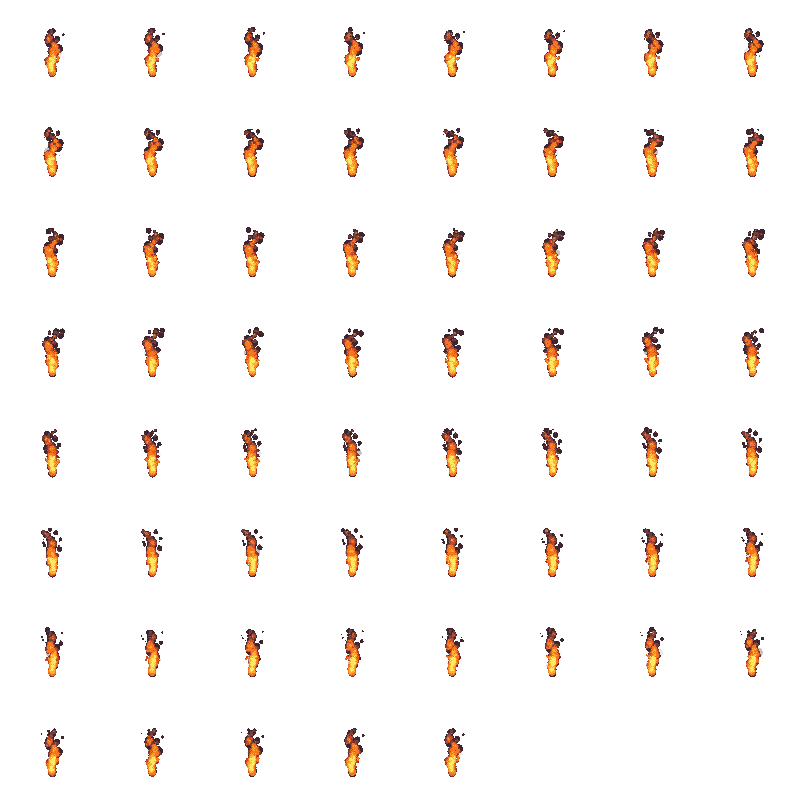
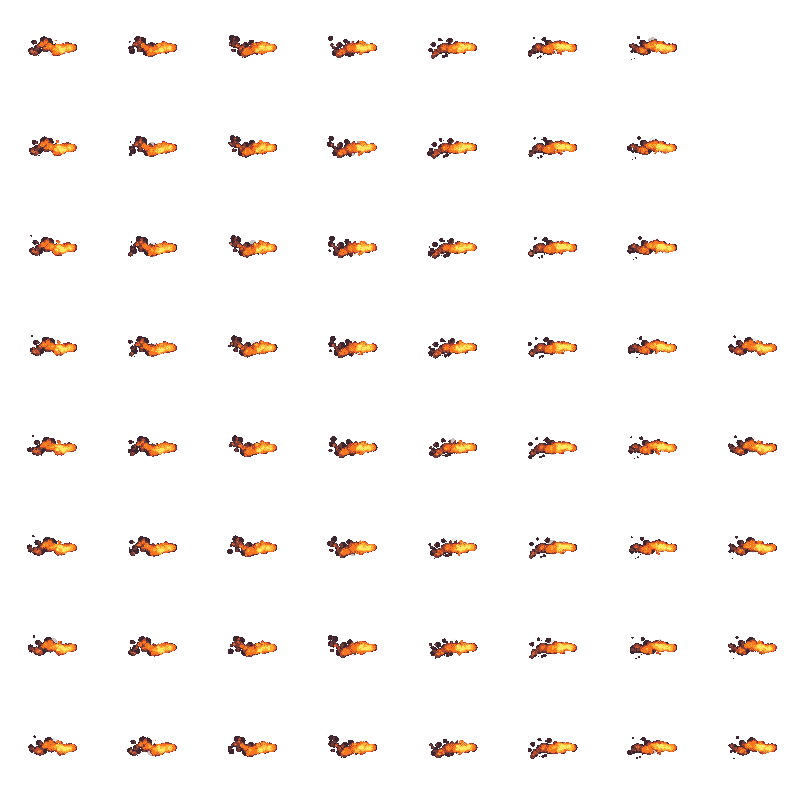
feat: add magic attack projectile system
- implement a dedicated MagicAttack class with sprite-sheet animation
- spawn and update magic projectiles in the world render loop
- add directional projectile movement and cleanup when off-screen
- bind magic attack input and trigger cast state from character
ogic
- delay projectile release until cast animation has finished
- consume mana on successful projectile release
- tune projectile spawn position to align closer to the character hand

diff --git a/models/player/character.class.js b/models/player/character.class.js
@@ -1,10 +1,11 @@
 import MovableObject from "../core/movable-object.class.js";
+import MagicAttack from "./magig-attack.class.js";
 
 export default class Character extends MovableObject {
   speed = 10;
   attackDamage = 5;
   comboInputWindowMs = 850;
-  mana = 20;
+  mana = 40;
   maxMana = 100;
 
   SPRITE_ANIMATIONS = {
@@ -66,11 +67,20 @@ export default class Character extends MovableObject {
 
   ATTACK_SEQUENCE = ["ATTACK_1", "ATTACK_2", "ATTACK_3"];
 
+  MAGIC_ATTACK = {
+    ATTACK_1: { startFrame: 6, endFrame: 8 }
+  };
+
+  MAGIC_ATTACK_SEQUENCE = ["ATTACK_1"];
+
   currentImg = 0;
   animationCounter = 0;
   activeAnimation = "WALK";
   deathAnimationFinished = false;
   attackActive = false;
+  magicAttackActive = false;
+  pendingMagicProjectile = false;
+  wasMagicAttackPressed = false;
   currentAttackName = null;
   queuedAttackName = null;
   comboExpiresAt = 0;
@@ -120,7 +130,11 @@ export default class Character extends MovableObject {
       this.handleAttackInput(now);
     }
 
-    if (!this.attackActive) {
+    if (this.isMagicAttackPressedNow()) {
+      this.handleMagicAttackInput(now);
+    }
+
+    if (!this.attackActive && !this.magicAttackActive) {
       this.handleMovementInput();
     }
   }
@@ -129,6 +143,13 @@ export default class Character extends MovableObject {
     const isPressed = Boolean(this.world?.keyboard?.ATTACK);
     const pressedNow = isPressed && !this.wasAttackPressed;
     this.wasAttackPressed = isPressed;
+    return pressedNow;
+  }
+
+  isMagicAttackPressedNow() {
+    const isPressed = Boolean(this.world?.keyboard?.MAGIC_ATTACK);
+    const pressedNow = isPressed && !this.wasMagicAttackPressed;
+    this.wasMagicAttackPressed = isPressed;
     return pressedNow;
   }
 
@@ -227,15 +248,43 @@ export default class Character extends MovableObject {
     this.queuedAttackName = null;
     this.comboExpiresAt = now + this.comboInputWindowMs;
     this.hitEnemiesThisAttack.clear();
+    this.activeAnimation = null;
+    this.animationCounter = 0;
     this.switchAnimation(attackName);
   }
 
   finishAttack() {
     this.attackActive = false;
+    this.magicAttackActive = false;
+    this.pendingMagicProjectile = false;
     this.currentAttackName = null;
     this.queuedAttackName = null;
     this.comboExpiresAt = 0;
     this.hitEnemiesThisAttack.clear();
+  }
+
+  handleMagicAttackInput(now) {
+    if (this.energy <= 0 || this.mana < 20) {
+      return;
+    }
+
+    if (this.attackActive || this.magicAttackActive) {
+      return;
+    }
+
+    this.startMagicAttack("ATTACK_2", now);
+  }
+
+  startMagicAttack(attackName, now) {
+    this.magicAttackActive = true;
+    this.pendingMagicProjectile = true;
+    this.currentAttackName = attackName;
+    this.queuedAttackName = null;
+    this.comboExpiresAt = now + this.comboInputWindowMs;
+    this.hitEnemiesThisAttack.clear();
+    this.activeAnimation = null;
+    this.animationCounter = 0;
+    this.switchAnimation(attackName);
   }
 
   // ─── Animation state machine ──────────────────────────────────────────────────
@@ -248,6 +297,11 @@ export default class Character extends MovableObject {
     }
 
     if (this.attackActive) {
+      this.playAttackAnimation(now);
+      return;
+    }
+
+    if (this.magicAttackActive) {
       this.playAttackAnimation(now);
       return;
     }
@@ -277,12 +331,30 @@ export default class Character extends MovableObject {
       return;
     }
 
+    if (this.magicAttackActive) {
+      this.releaseMagicProjectile();
+      this.finishAttack();
+      return;
+    }
+
     if (this.queuedAttackName && now <= this.comboExpiresAt) {
       this.startAttack(this.queuedAttackName, now);
     } else {
       this.finishAttack();
     }
   }
+
+  releaseMagicProjectile() {
+    if (!this.pendingMagicProjectile || !this.world) {
+      return;
+    }
+
+    const magicAttack = new MagicAttack(this);
+    this.world.addMagicAttack(magicAttack);
+    this.mana -= 20;
+    this.pendingMagicProjectile = false;
+  }
+
 
   playHurtAnimation() {
     this.switchAnimation("HURT");

diff --git a/models/player/magig-attack.class.js b/models/player/magig-attack.class.js
@@ -1,0 +1,57 @@
+import MovableObject from "../core/movable-object.class.js";
+
+export default class MagicAttack extends MovableObject {
+
+  speed = 10;
+  attackDamage = 5;
+
+  SPRITE_ANIMATION = {
+    frameCount: 8,
+    frameWidth: 100,
+    frameHeight: 100,
+    columns: 8,
+  };
+
+  currentImg = 0;
+  animationCounter = 0;
+
+  RIGHT_HAND_SPAWN_X_RATIO = 0.60;
+  LEFT_HAND_SPAWN_X_RATIO = 0.34;
+  HAND_SPAWN_Y_RATIO = 0.82;
+
+  constructor(character) {
+    super();
+    this.world = character?.world;
+    this.loadImage("img/character/wizard/fire_magic.png");
+    this.width = 120;
+    this.height = 90;
+    this.speed = 2;
+    this.damage = 10;
+    this.spriteSheet = {
+      frameWidth: this.SPRITE_ANIMATION.frameWidth,
+      frameHeight: this.SPRITE_ANIMATION.frameHeight,
+      frameCount: this.SPRITE_ANIMATION.frameCount,
+      columns: this.SPRITE_ANIMATION.columns,
+      currentFrame: 0,
+    };
+
+    const spawnAnchorX = character.otherDirection
+      ? character.x + character.width * this.LEFT_HAND_SPAWN_X_RATIO
+      : character.x + character.width * this.RIGHT_HAND_SPAWN_X_RATIO;
+    const spawnAnchorY = character.y + character.height * this.HAND_SPAWN_Y_RATIO;
+    this.x = character.otherDirection
+      ? spawnAnchorX - this.width * 0.75
+      : spawnAnchorX;
+    this.y = spawnAnchorY - this.height / 2;
+    this.otherDirection = character.otherDirection;
+  }
+
+  update() {
+    this.x += this.otherDirection ? -this.speed : this.speed;
+    this.animationCounter++;
+    if (this.animationCounter % 3 === 0 && this.spriteSheet) {
+      this.spriteSheet.currentFrame =
+        (this.spriteSheet.currentFrame + 1) % this.spriteSheet.frameCount;
+    }
+  }
+}

diff --git a/models/core/world.class.js b/models/core/world.class.js
@@ -13,6 +13,7 @@ export default class World {
   enemies = [];
   collectables = [];
   decorations = [];
+  magicAttacks = [];
   statusBar = new StatusBar();
   character = new Character();
   canvas;
@@ -97,6 +98,8 @@ export default class World {
     this.addObjToMap(this.tileset);
     this.addObjToMap(this.decorations);
     this.addObjToMap(this.collectables);
+    this.updateMagicAttacks();
+    this.addObjToMap(this.magicAttacks);
     this.addToMap(this.character);
     this.updateEnemyPlatformLocks();
     this.addObjToMap(this.enemies);
@@ -153,6 +156,27 @@ export default class World {
 
   getBackgroundVerticalPadding() {
     return Math.max(0, this.cameraMaxUp);
+  }
+
+  updateMagicAttacks() {
+    this.magicAttacks = this.magicAttacks.filter((attack) => {
+      if (typeof attack?.update === "function") {
+        attack.update();
+      }
+
+      const levelEndX = this.level?.levelEndX ?? Infinity;
+      const isOutOnRight = attack.x > levelEndX + 120;
+      const isOutOnLeft = attack.x + attack.width < -120;
+      return !isOutOnRight && !isOutOnLeft;
+    });
+  }
+
+  addMagicAttack(attack) {
+    if (!attack) {
+      return;
+    }
+
+    this.magicAttacks.push(attack);
   }
 
   addObjToMap(objects) {

diff --git a/js/game.js b/js/game.js
@@ -13,7 +13,7 @@ function init() {
 
 window.addEventListener("load", init);
 window.addEventListener("keydown", (e) => {
-  if (["ArrowRight", "ArrowLeft", "ArrowUp", "ArrowDown", "Space", "KeyW", "KeyA", "KeyS", "KeyD", "KeyF"].includes(e.code)) {
+  if (["ArrowRight", "ArrowLeft", "ArrowUp", "ArrowDown", "Space", "KeyW", "KeyA", "KeyS", "KeyD", "KeyF", "KeyG"].includes(e.code)) {
     e.preventDefault();
   }
 
@@ -40,11 +40,14 @@ window.addEventListener("keydown", (e) => {
     case "KeyF":
       world.keyboard.ATTACK = true;
       break;
+      case "KeyG":
+        world.keyboard.MAGIC_ATTACK = true;
+        break;
   }
 });
 
 window.addEventListener("keyup", (e) => {
-  if (["ArrowRight", "ArrowLeft", "ArrowUp", "ArrowDown", "Space", "KeyW", "KeyA", "KeyS", "KeyD", "KeyF"].includes(e.code)) {
+  if (["ArrowRight", "ArrowLeft", "ArrowUp", "ArrowDown", "Space", "KeyW", "KeyA", "KeyS", "KeyD", "KeyF", "KeyG"].includes(e.code)) {
     e.preventDefault();
   }
 
@@ -71,5 +74,8 @@ window.addEventListener("keyup", (e) => {
     case "KeyF":
       world.keyboard.ATTACK = false;
       break;
+      case "KeyG":
+        world.keyboard.MAGIC_ATTACK = false;
+        break;
   }
 });

diff --git a/models/environment/background-object.class.js b/models/environment/background-object.class.js
@@ -7,7 +7,7 @@ export default class BackgroundObject extends MovableObject {
         this.loadImage(imagePath);
         this.x = 0;
         this.y = 0;
-        this.width = 720;
+        this.width = 750;
         this.height = 480;
         this.parallaxFactor = parallaxFactor;
     }

diff --git a/models/core/keyboard.class.js b/models/core/keyboard.class.js
@@ -5,6 +5,7 @@ export default class Keyboard {
     DOWN = false;
     SPACE = false;
     ATTACK = false;
+    MAGIC_ATTACK = false;
 
     constructor() {}
 }